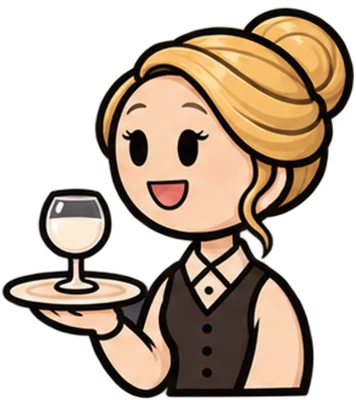
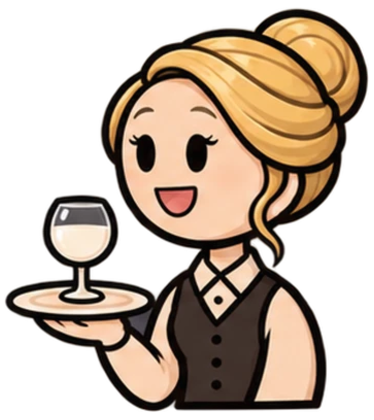
Polish Pipe refills and character portraits

diff --git a/style.css b/style.css
@@ -253,6 +253,7 @@ canvas {
 }
 
 
+
 .conversation-replies {
   display: flex;
   flex-wrap: wrap;
@@ -315,22 +316,11 @@ canvas {
   }
 }
 
-/* These marks share the portrait atlas' position and scale. */
-.conversation-portrait[data-injured="true"]::after {
-  content: '';
-  position: absolute;
-  top: 50%;
-  left: 50%;
+.conversation-portrait[data-portrait="milo"].milo-injury-portrait::before {
   width: 128%;
+  height: auto;
   aspect-ratio: 1;
   transform: translate(-50%, -50%);
-  pointer-events: none;
-  background:
-    radial-gradient(ellipse 1.8% 0.7% at 44% 49%, #873e45de 30%, transparent 100%),
-    radial-gradient(ellipse 3.5% 2.1% at 43% 50%, #b758596e 35%, transparent 100%),
-    radial-gradient(ellipse 6.2% 4.7% at 34% 37%, #64416dcc 36%, #815279a8 67%, transparent 100%),
-    radial-gradient(ellipse 5.1% 3.6% at 55% 42%, #844661bd 32%, #b06a7270 72%, transparent 100%),
-    radial-gradient(ellipse 2.1% 1.4% at 51% 24%, #a75e6194 38%, transparent 100%);
 }
 
 /* The separate reaction portraits use more transparent padding than the atlas. */
